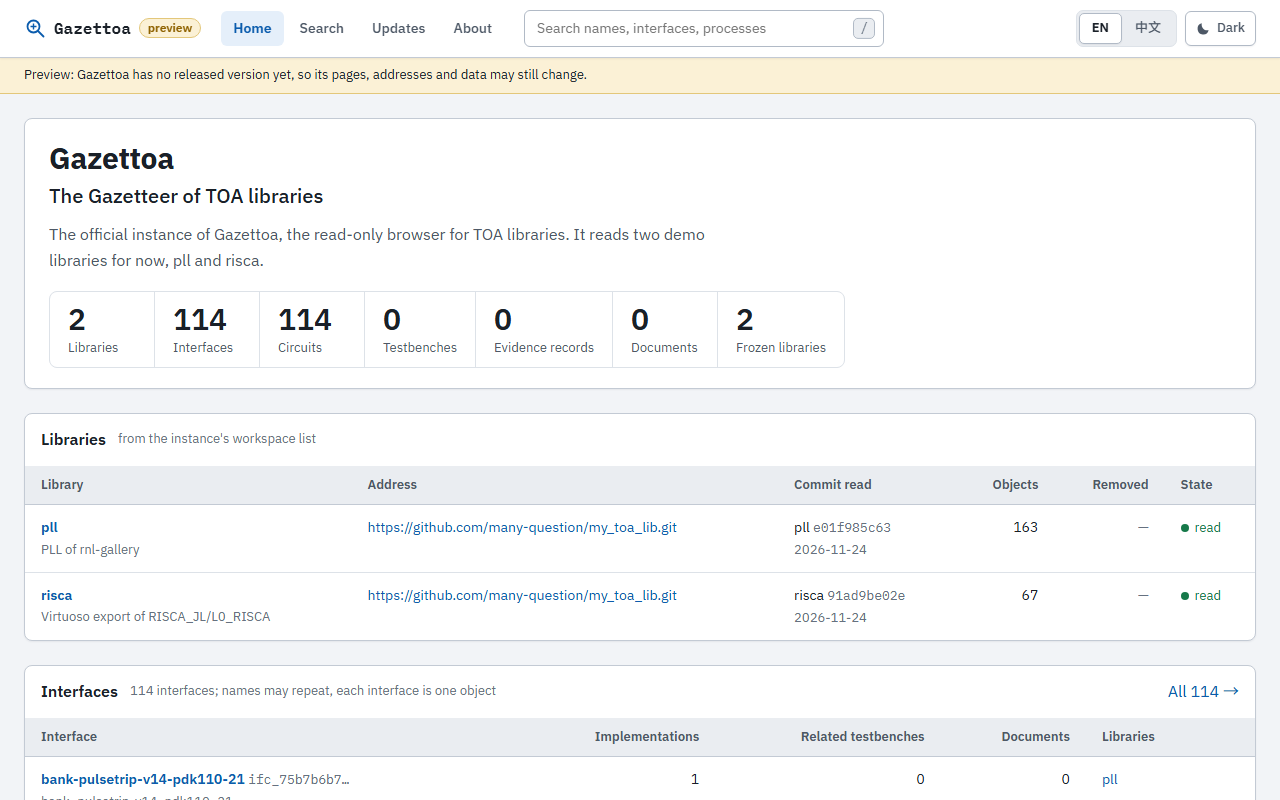
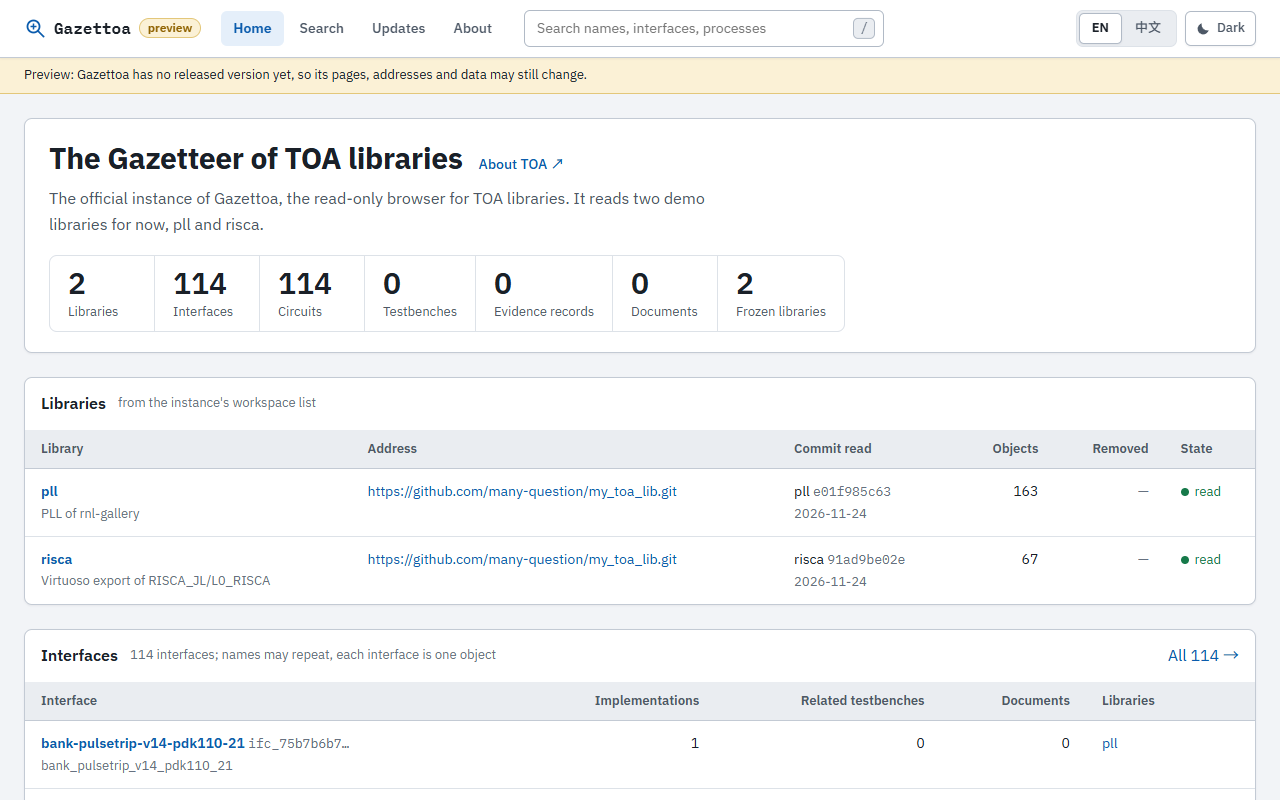
Make the subtitle the home page's title, with a link to TOA
From 4eab7fb of toa-dev.

diff --git a/web/assets/pages.js b/web/assets/pages.js
@@ -348,9 +348,11 @@ export async function pageHome() {
   const s = S.site;
   const c = s.counts;
   const stat = (n, label, href = "") => (href ? `<a class="stat" href="${href}"><b>${n}</b><span>${esc(label)}</span></a>` : `<div class="stat"><b>${n}</b><span>${esc(label)}</span></div>`);
+  // the top bar names the instance; the home page says what Gazettoa is, and links TOA's site when
+  // the instance names it (gaze.yaml, toa_site)
+  const toa = /^https?:\/\//.test(s.toa_site || "") ? `<a class="hero-link" href="${esc(s.toa_site)}" target="_blank" rel="noopener noreferrer">${esc(t("About TOA"))} ↗</a>` : "";
   const hero = `<section class="hero"><div class="hero-top"><div class="hero-main">
-    <h1>${esc(s.title)}</h1>
-    <p class="subtitle">${esc(t("The Gazetteer of TOA libraries"))}</p>
+    <div class="hero-title"><h1>${esc(t("The Gazetteer of TOA libraries"))}</h1>${toa}</div>
     <p class="lede">${esc(s.description || t("A read-only browser for TOA libraries. Every object here is read from the libraries below and checked by toa; the files stay in the libraries."))}</p>
     <div class="stats">${stat(c.libraries, t("Libraries"))}${stat(c.ifc, t("Interfaces"), "#/search?p=ifc")}${stat(c.ckt, t("Circuits"), "#/search?p=ckt")}${stat(c.tb, t("Testbenches"), "#/search?p=tb")}${stat(c.evd, t("Evidence records"), "#/search?p=evd")}${stat(c.doc, t("Documents"), "#/search?p=doc")}${c.lib ? stat(c.lib, t("Frozen libraries"), "#/search?p=lib") : ""}</div>
   </div></div></section>`;

diff --git a/web/assets/styles.css b/web/assets/styles.css
@@ -60,8 +60,10 @@ h2{font-size:var(--fs-4);line-height:1.3;margin:0;font-weight:600}
 h3{font-size:var(--fs-2);margin:0;font-weight:600;color:var(--ink)}
 p{margin:0;max-width:72ch}
 .lede{color:var(--muted);font-size:var(--fs-3);max-width:72ch}
-/* the subtitle of Gazettoa, under the title of the home page */
-.subtitle{margin-top:-6px;color:var(--ink);font-size:var(--fs-4);font-weight:500}
+/* the title of the home page, and the link to TOA's site at the end of its line (or below it) */
+.hero-title{display:flex;flex-wrap:wrap;align-items:baseline;gap:4px 16px}
+.hero-title h1{min-width:0}
+.hero-link{font-size:var(--fs-2);font-weight:500;white-space:nowrap}
 .crumb{font-size:var(--fs-1);color:var(--faint);display:flex;gap:8px;flex-wrap:wrap;align-items:center;margin-bottom:-8px}
 .stack{display:flex;flex-direction:column;gap:var(--gap)}
 .row{display:flex;gap:8px 16px;flex-wrap:wrap;align-items:center}

diff --git a/builder/gaze/config.py b/builder/gaze/config.py
@@ -160,6 +160,7 @@ class Config:
     description: str = ""
     site_url: str = ""
     viewer_url: str = "https://rich-netlist.github.io/rnl/viewer/"
+    toa_site: str = ""            # the site of TOA, linked from the home page; no link when empty
     hosts: dict[str, dict[str, str]] = field(default_factory=lambda: {k: dict(v) for k, v in DEFAULT_HOSTS.items()})
     libraries: dict[str, dict] = field(default_factory=dict)
     repository: str = ""          # where this instance's own code lives, for the footer; from Actions
@@ -195,18 +196,21 @@ def load(instance: Path, site_url: str | None = None) -> Config:
     if path.is_file():
         data = parse_yaml_subset(path.read_text(encoding="utf-8"), str(path.name))
         cfg.source = path
-        known = {"schema", "title", "description", "site_url", "viewer_url", "hosts", "libraries",
+        known = {"schema", "title", "description", "site_url", "viewer_url", "toa_site", "hosts", "libraries",
                  "software_heritage_check", "github_signature_check"}
         for k in data:
             if k not in known:
                 raise ConfigError(f"{CONFIG_FILE}: unknown key {k!r}; known: {', '.join(sorted(known))}")
         if data.get("schema") not in (None, "gaze/instance/1"):
             raise ConfigError(f"{CONFIG_FILE}: schema is gaze/instance/1, not {data.get('schema')!r}")
-        for k in ("title", "description", "site_url", "viewer_url"):
+        for k in ("title", "description", "site_url", "viewer_url", "toa_site"):
             if data.get(k) is not None:
                 if not isinstance(data[k], str):
                     raise ConfigError(f"{CONFIG_FILE}: {k} is a string")
                 setattr(cfg, k, data[k])
+        # a link on the home page: an address on the web, never a script
+        if cfg.toa_site and not re.match(r"^https?://[^\s\"'<>]+$", cfg.toa_site):
+            raise ConfigError(f"{CONFIG_FILE}: toa_site is an address that starts with https://, not {cfg.toa_site!r}")
         for k in ("software_heritage_check", "github_signature_check"):
             if data.get(k) is not None:
                 if not isinstance(data[k], bool):

diff --git a/tests/test_builder.py b/tests/test_builder.py
@@ -93,6 +93,16 @@ class Config(unittest.TestCase):
             with self.assertRaises(config.ConfigError):
                 config.load(Path(d))
 
+    def test_toa_site_is_an_address_on_the_web(self):
+        with tempfile.TemporaryDirectory() as d:
+            self.assertEqual(config.load(Path(d)).toa_site, "")   # left out: no link on the home page
+            (Path(d) / "gaze.yaml").write_bytes(b"toa_site: https://x.example/toa/\n")
+            self.assertEqual(config.load(Path(d)).toa_site, "https://x.example/toa/")
+            for bad in (b"toa_site: javascript:alert(1)\n", b"toa_site: x.example/toa\n", b"toa_site: 3\n"):
+                (Path(d) / "gaze.yaml").write_bytes(bad)
+                with self.subTest(text=bad), self.assertRaises(config.ConfigError):
+                    config.load(Path(d))
+
     def test_addresses(self):
         self.assertEqual(config.split_address("https://github.com/a/b.git"), ("github.com", "a/b"))
         self.assertEqual(config.split_address("git@github.com:a/b.git"), ("github.com", "a/b"))
@@ -416,6 +426,7 @@ class Build(unittest.TestCase):
         self.assertEqual((r["libraries"], r["ifcs"], r["groups"]), (4, 2, 1))
         site = load(out / "data" / "site.json")
         self.assertEqual(site["format"], "gaze-site/1")
+        self.assertEqual(site["toa_site"], "")   # the instance of the tests names no site of TOA
         from gaze import fields
         self.assertEqual(site["types"], fields.TYPES)   # the page maps prefixes through this
         self.assertEqual(site["counts"]["objects"], 11)

diff --git a/builder/gaze/build.py b/builder/gaze/build.py
@@ -495,6 +495,7 @@ def build(instance: Path, index_dir: Path, out: Path, *, prev: Path | None = Non
         "description": cfg.description,
         "site_url": cfg.site_url,
         "viewer_url": cfg.viewer_url,
+        "toa_site": cfg.toa_site,
         "repository": cfg.repository,
         "built": built,
         "feeds": feeds_ok,

diff --git a/README.md b/README.md
@@ -135,6 +135,7 @@ spaces, `key: value`, one-line `{a: b}` mappings and `#` comments. Its keys:
 | `title`, `description` | Shown on the home page and in the title bar (the default title is Gazettoa) |
 | `site_url` | The published address, for feeds and `llms.txt`; default from GitHub Actions |
 | `viewer_url` | The RNL viewer embedded for schematics; the page sends it the netlist as text |
+| `toa_site` | The site of TOA, linked from the home page as "About TOA"; left out, the home page has no such link |
 | `hosts.<host>.raw`, `.web` | How a file and a folder of a library on another host are addressed: `{repo}`, `{commit}`, `{path}` |
 | `libraries.<key>.raw` | `url` (the page fetches files from the host, the default) or `copy` (the build copies them) |
 
